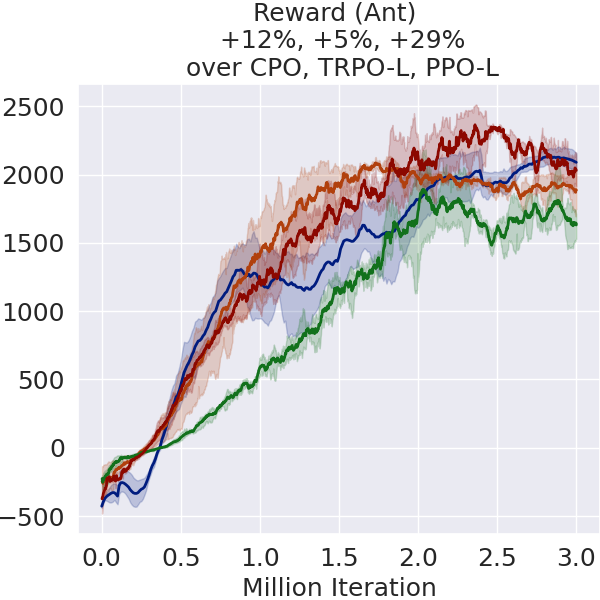
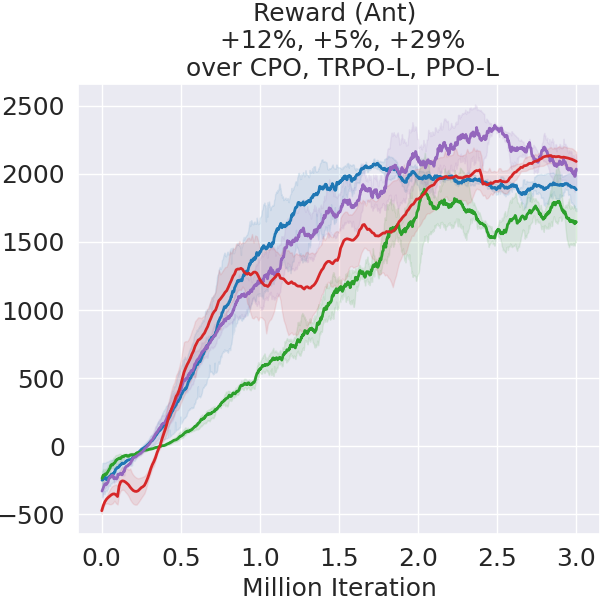
update lineplot

diff --git a/data_process/lineplot_mujoco_raw_spd_walker.py b/data_process/lineplot_mujoco_raw_spd_walker.py
@@ -26,9 +26,9 @@ fsac_bias = {'episode_return':{'Ant':-1000,'HalfCheetah':0,'Walker2d':0,},'episo
 
 
 def help_func():
-    tag2plot = ['episode_return']
-    alg_list = ['FSAC', 'CPO','PPO-Lagrangian','TRPO-Lagrangian', ] # 'FSAC', 'CPO', 'SAC','SAC-Lagrangian',
-    lbs = ['FAC','CPO','PPO-L','TRPO-L',] #  'FAC', 'CPO', 'SAC','SAC-Lagrangian',
+    tag2plot = ['episode_cost']
+    alg_list = ['CPO','PPO-Lagrangian','TRPO-Lagrangian','FSAC',  ] # 'FSAC', 'CPO', 'SAC','SAC-Lagrangian',
+    lbs = ['CPO','PPO-L','TRPO-L','FAC',] #  'FAC', 'CPO', 'SAC','SAC-Lagrangian',
     task = ['Walker2d']
     #todo: CarGoal: sac
     #todo: CarButton: sac choose better fac
@@ -80,7 +80,7 @@ def plot_eval_results_of_all_alg_n_runs(dirs_dict_for_plot=None):
                                 step = int(event.step / 7200) * 10000
                             else:
                                 step = event.step
-                            if step <= 3000000:
+                            if step <= 2500000:
                                 if dir.startswith('half') and step > 1500000:
                                     continue
                                 if dir.startswith('init40') and step > 400000:
@@ -93,6 +93,7 @@ def plot_eval_results_of_all_alg_n_runs(dirs_dict_for_plot=None):
                                     continue
                                 if dir.startswith('init220') and step > 2200000:
                                     continue
+                                step = step / 5 * 6
                                 for v in event.summary.value:
                                     t = tf.make_ndarray(v.tensor)
                                     for tag in tag2plot:
@@ -140,26 +141,32 @@ def plot_eval_results_of_all_alg_n_runs(dirs_dict_for_plot=None):
         fontsize = 18
         f1 = plt.figure(1, figsize=figsize)
         ax1 = f1.add_axes(axes_size)
-        legend = True if task == 'Ant' and tag == 'episode_cost' else False
-        if not legend:
-            sns.lineplot(x="iteration", y=tag2plot[0], hue="algorithm",
-                         data=total_dataframe, linewidth=2, palette=palette, legend=False
-                         )
-        else:
-            sns.lineplot(x="iteration", y=tag2plot[0], hue="algorithm",
-                         data=total_dataframe, linewidth=2, palette=palette
-                         )
+        sns.set_palette([(0.12156862745098039, 0.4666666666666667, 0.7058823529411765),
+                         # (1.0, 0.4980392156862745, 0.054901960784313725),
+                         (0.17254901960784313, 0.6274509803921569, 0.17254901960784313),
+                         (0.5803921568627451, 0.403921568627451, 0.7411764705882353),
+                         (0.8392156862745098, 0.15294117647058825, 0.1568627450980392),
+                         # (0.5490196078431373, 0.33725490196078434, 0.29411764705882354),
+                         # (0.8901960784313725, 0.4666666666666667, 0.7607843137254902),
+                         # (0.4980392156862745, 0.4980392156862745, 0.4980392156862745),
+                         (0.7372549019607844, 0.7411764705882353, 0.13333333333333333),
+                         (0.09019607843137255, 0.7450980392156863, 0.8117647058823529)]
+                        )
+        # legend = True if task == 'Ant' and tag == 'episode_cost' else False
+        sns.lineplot(x="iteration", y=tag2plot[0], hue="algorithm", err_kws={'alpha':0.1},
+                     data=total_dataframe, linewidth=2 , legend=False # palette=palette,
+                     )
         base = base_dict[task]
         handles, labels = ax1.get_legend_handles_labels()
         labels = lbs
         if tag == 'episode_cost':
             basescore = sns.lineplot(x=[0., 3.], y=[base, base], linewidth=2, color='black', linestyle='--')
-            if legend:
-                ax1.legend(handles=handles + [basescore.lines[-1]], labels=labels + ['Constraint'], loc='upper left',
-                           frameon=False, fontsize=fontsize)
-        else:
-            if legend:
-                ax1.legend(handles=handles , labels=labels , loc='lower right', frameon=False, fontsize=fontsize, ncol=1)
+        #     if legend:
+        #         ax1.legend(handles=handles + [basescore.lines[-1]], labels=labels + ['Constraint'], loc='upper left',
+        #                    frameon=False, fontsize=fontsize)
+        # else:
+        #     if legend:
+        #         ax1.legend(handles=handles , labels=labels , loc='lower right', frameon=False, fontsize=fontsize, ncol=1)
         # print(ax1.lines[0].get_data())
         ax1.set_ylabel('')
         ax1.set_xlabel("Million Iteration", fontsize=fontsize)
@@ -173,7 +180,8 @@ def plot_eval_results_of_all_alg_n_runs(dirs_dict_for_plot=None):
         plt.yticks(fontsize=fontsize)
         plt.xticks(fontsize=fontsize)
         # plt.show()
-        fig_name = '../data_process/figure/' + task+'-'+tag + 'spd.png'
+        fig_name = '../data_process/figure/' + task+'-'+tag + '_spd.png'
+        print(fig_name)
         plt.savefig(fig_name)
         # allresults = {}
         # results2print = {}

diff --git a/data_process/lineplot_mujoco_raw_spd.py b/data_process/lineplot_mujoco_raw_spd.py
@@ -13,9 +13,9 @@ from tensorboard.backend.event_processing import event_accumulator
 import json
 
 sns.set(style="darkgrid")
-SMOOTHFACTOR = 0.965 # 1 3 7 halfcheetah
+SMOOTHFACTOR = 0.8 # 1 3 7 halfcheetah
 SMOOTHFACTOR2 = 20
-SMOOTHFACTOR3 = 20
+SMOOTHFACTOR3 = 30
 DIV_LINE_WIDTH = 50
 txt_store_alg_list = ['CPO', 'PPO-Lagrangian', 'TRPO-Lagrangian']
 base_dict = dict(HalfCheetah=1.5, Ant=1.5, Walker2d=1.5)
@@ -27,13 +27,10 @@ fsac_bias = {'episode_return':{'Ant':-1000,'HalfCheetah':0,'Walker2d':0,},'episo
 
 def help_func():
     tag2plot = ['episode_return']
-    alg_list = ['FSAC', 'CPO','PPO-Lagrangian','TRPO-Lagrangian', ] # 'FSAC', 'CPO', 'SAC','SAC-Lagrangian',
-    lbs = ['FAC','CPO','PPO-L','TRPO-L',] #  'FAC', 'CPO', 'SAC','SAC-Lagrangian',
+    alg_list = ['CPO','PPO-Lagrangian','TRPO-Lagrangian','FSAC',  ] # 'FSAC', 'CPO', 'SAC','SAC-Lagrangian',
+    lbs = ['CPO','PPO-L','TRPO-L','FAC',] #  'FAC', 'CPO', 'SAC','SAC-Lagrangian',
     task = ['Ant']
-    #todo: CarGoal: sac
-    #todo: CarButton: sac choose better fac
-    # todo: CarPush: ???
-    palette = "dark"
+    palette = "bright"
     goal_perf_list = [-200, -100, -50, -30, -20, -10, -5]
     dir_str = '../results/{}/{}/data2plot' # .format(algo name) # /data2plot
     return tag2plot, alg_list, task, lbs, palette, goal_perf_list, dir_str
@@ -159,27 +156,30 @@ def plot_eval_results_of_all_alg_n_runs(dirs_dict_for_plot=None):
         fontsize = 18
         f1 = plt.figure(1, figsize=figsize)
         ax1 = f1.add_axes(axes_size)
-        legend = True if task == 'Ant' and tag == 'episode_cost' else False
-        if not legend:
-            sns.lineplot(x="iteration", y=tag2plot[0], hue="algorithm",
-                         data=total_dataframe, linewidth=2, palette=palette, legend=False
-                         )
-        else:
-            sns.lineplot(x="iteration", y=tag2plot[0], hue="algorithm",
-                         data=total_dataframe, linewidth=2, palette=palette
-                         )
+        sns.set_palette([(0.12156862745098039, 0.4666666666666667, 0.7058823529411765),
+                         # (1.0, 0.4980392156862745, 0.054901960784313725),
+                         (0.17254901960784313, 0.6274509803921569, 0.17254901960784313),
+                         (0.5803921568627451, 0.403921568627451, 0.7411764705882353),
+                         (0.8392156862745098, 0.15294117647058825, 0.1568627450980392),
+                         # (0.5490196078431373, 0.33725490196078434, 0.29411764705882354),
+                         # (0.8901960784313725, 0.4666666666666667, 0.7607843137254902),
+                         # (0.4980392156862745, 0.4980392156862745, 0.4980392156862745),
+                         (0.7372549019607844, 0.7411764705882353, 0.13333333333333333),
+                         (0.09019607843137255, 0.7450980392156863, 0.8117647058823529)]
+                        )
+        sns.lineplot(x="iteration", y=tag2plot[0], hue="algorithm", err_kws={'alpha':0.1},
+                     data=total_dataframe, linewidth=2 , legend=False # palette=palette,
+                     )
         base = base_dict[task]
         handles, labels = ax1.get_legend_handles_labels()
+        print(handles)
+        print(labels)
         labels = lbs
         if tag == 'episode_cost':
             basescore = sns.lineplot(x=[0., 3.], y=[base, base], linewidth=2, color='black', linestyle='--')
-            if legend:
-                ax1.legend(handles=handles + [basescore.lines[-1]], labels=labels + ['Constraint'], loc='upper left',
-                           frameon=False, fontsize=fontsize)
-        else:
-            if legend:
-                ax1.legend(handles=handles , labels=labels , loc='lower right', frameon=False, fontsize=fontsize, ncol=1)
-        # print(ax1.lines[0].get_data())
+        # handles_ = [handles[-1]] + handles[:-1] + [basescore.lines[-1]]
+        #
+        # labels_ = [labels[-1]] + labels[:-1] + ['Constraint']
         ax1.set_ylabel('')
         ax1.set_xlabel("Million Iteration", fontsize=fontsize)
         print(compare_dict)
@@ -194,6 +194,18 @@ def plot_eval_results_of_all_alg_n_runs(dirs_dict_for_plot=None):
         # plt.show()
         fig_name = '../data_process/figure/' + task+'-'+tag + 'spd.png'
         plt.savefig(fig_name)
+        # legfig, legax = plt.subplots(figsize=(8, 1))
+        # legax.set_facecolor('white')
+        # if legend:
+        #     leg = legax.legend(handles=handles_, labels=labels_ + ['Constraint'],
+        #                        loc='center',
+        #                        frameon=False, fontsize=fontsize, ncol=5, borderaxespad=0., mode='expand',
+        #                        handlelength=1.5)
+        #     legax.xaxis.set_visible(False)
+        #     legax.yaxis.set_visible(False)
+        #     plt.tight_layout(pad=0.5)
+        #     fig_name2 = '../data_process/figure/legend.png'
+        #     plt.savefig(fig_name2)
         # allresults = {}
         # results2print = {}
         #

diff --git a/data_process/lineplot_mujoco_raw_spd_halfcheetah.py b/data_process/lineplot_mujoco_raw_spd_halfcheetah.py
@@ -26,9 +26,9 @@ fsac_bias = {'episode_return':{'Ant':-1000,'HalfCheetah':-750,},'episode_cost':{
 
 
 def help_func():
-    tag2plot = ['episode_cost']
-    alg_list = ['FSAC', 'CPO','PPO-Lagrangian','TRPO-Lagrangian', ] # 'FSAC', 'CPO', 'SAC','SAC-Lagrangian',
-    lbs = ['FAC','CPO','PPO-L','TRPO-L',] #  'FAC', 'CPO', 'SAC','SAC-Lagrangian',
+    tag2plot = ['episode_return']
+    alg_list = ['CPO','PPO-Lagrangian','TRPO-Lagrangian','FSAC',  ] # 'FSAC', 'CPO', 'SAC','SAC-Lagrangian',
+    lbs = ['CPO','PPO-L','TRPO-L','FAC',] #  'FAC', 'CPO', 'SAC','SAC-Lagrangian',
     task = ['HalfCheetah']
     #todo: CarGoal: sac
     #todo: CarButton: sac choose better fac
@@ -136,26 +136,33 @@ def plot_eval_results_of_all_alg_n_runs(dirs_dict_for_plot=None):
         fontsize = 18
         f1 = plt.figure(1, figsize=figsize)
         ax1 = f1.add_axes(axes_size)
-        legend = True if task == 'Ant' and tag == 'episode_cost' else False
-        if not legend:
-            sns.lineplot(x="iteration", y=tag2plot[0], hue="algorithm",
-                         data=total_dataframe, linewidth=2, palette=palette, legend=False
-                         )
-        else:
-            sns.lineplot(x="iteration", y=tag2plot[0], hue="algorithm",
-                         data=total_dataframe, linewidth=2, palette=palette
-                         )
+        sns.set_palette([(0.12156862745098039, 0.4666666666666667, 0.7058823529411765),
+                         # (1.0, 0.4980392156862745, 0.054901960784313725),
+                         (0.17254901960784313, 0.6274509803921569, 0.17254901960784313),
+                         (0.5803921568627451, 0.403921568627451, 0.7411764705882353),
+                         (0.8392156862745098, 0.15294117647058825, 0.1568627450980392),
+                         # (0.5490196078431373, 0.33725490196078434, 0.29411764705882354),
+                         # (0.8901960784313725, 0.4666666666666667, 0.7607843137254902),
+                         # (0.4980392156862745, 0.4980392156862745, 0.4980392156862745),
+                         (0.7372549019607844, 0.7411764705882353, 0.13333333333333333),
+                         (0.09019607843137255, 0.7450980392156863, 0.8117647058823529)]
+                        )
+        # legend = True if task == 'Ant' and tag == 'episode_cost' else False
+        sns.lineplot(x="iteration", y=tag2plot[0], hue="algorithm", err_kws={'alpha':0.1},
+                     data=total_dataframe, linewidth=2 , legend=False # palette=palette,
+                     )
         base = base_dict[task]
         handles, labels = ax1.get_legend_handles_labels()
+        print(handles, labels)
         labels = lbs
         if tag == 'episode_cost':
             basescore = sns.lineplot(x=[0., 3.], y=[base, base], linewidth=2, color='black', linestyle='--')
-            if legend:
-                ax1.legend(handles=handles + [basescore.lines[-1]], labels=labels + ['Constraint'], loc='upper left',
-                           frameon=False, fontsize=fontsize)
-        else:
-            if legend:
-                ax1.legend(handles=handles , labels=labels , loc='lower right', frameon=False, fontsize=fontsize, ncol=1)
+        #     if legend:
+        #         ax1.legend(handles=handles + [basescore.lines[-1]], labels=labels + ['Constraint'], loc='upper left',
+        #                    frameon=False, fontsize=fontsize)
+        # else:
+        #     if legend:
+        #         ax1.legend(handles=handles , labels=labels , loc='lower right', frameon=False, fontsize=fontsize, ncol=1)
         # print(ax1.lines[0].get_data())
         ax1.set_ylabel('')
         ax1.set_xlabel("Million Iteration", fontsize=fontsize)
@@ -170,6 +177,7 @@ def plot_eval_results_of_all_alg_n_runs(dirs_dict_for_plot=None):
         plt.xticks(fontsize=fontsize)
         # plt.show()
         fig_name = '../data_process/figure/' + task+'-'+tag + '_spd.png'
+        print(fig_name)
         plt.savefig(fig_name)
         # allresults = {}
         # results2print = {}
